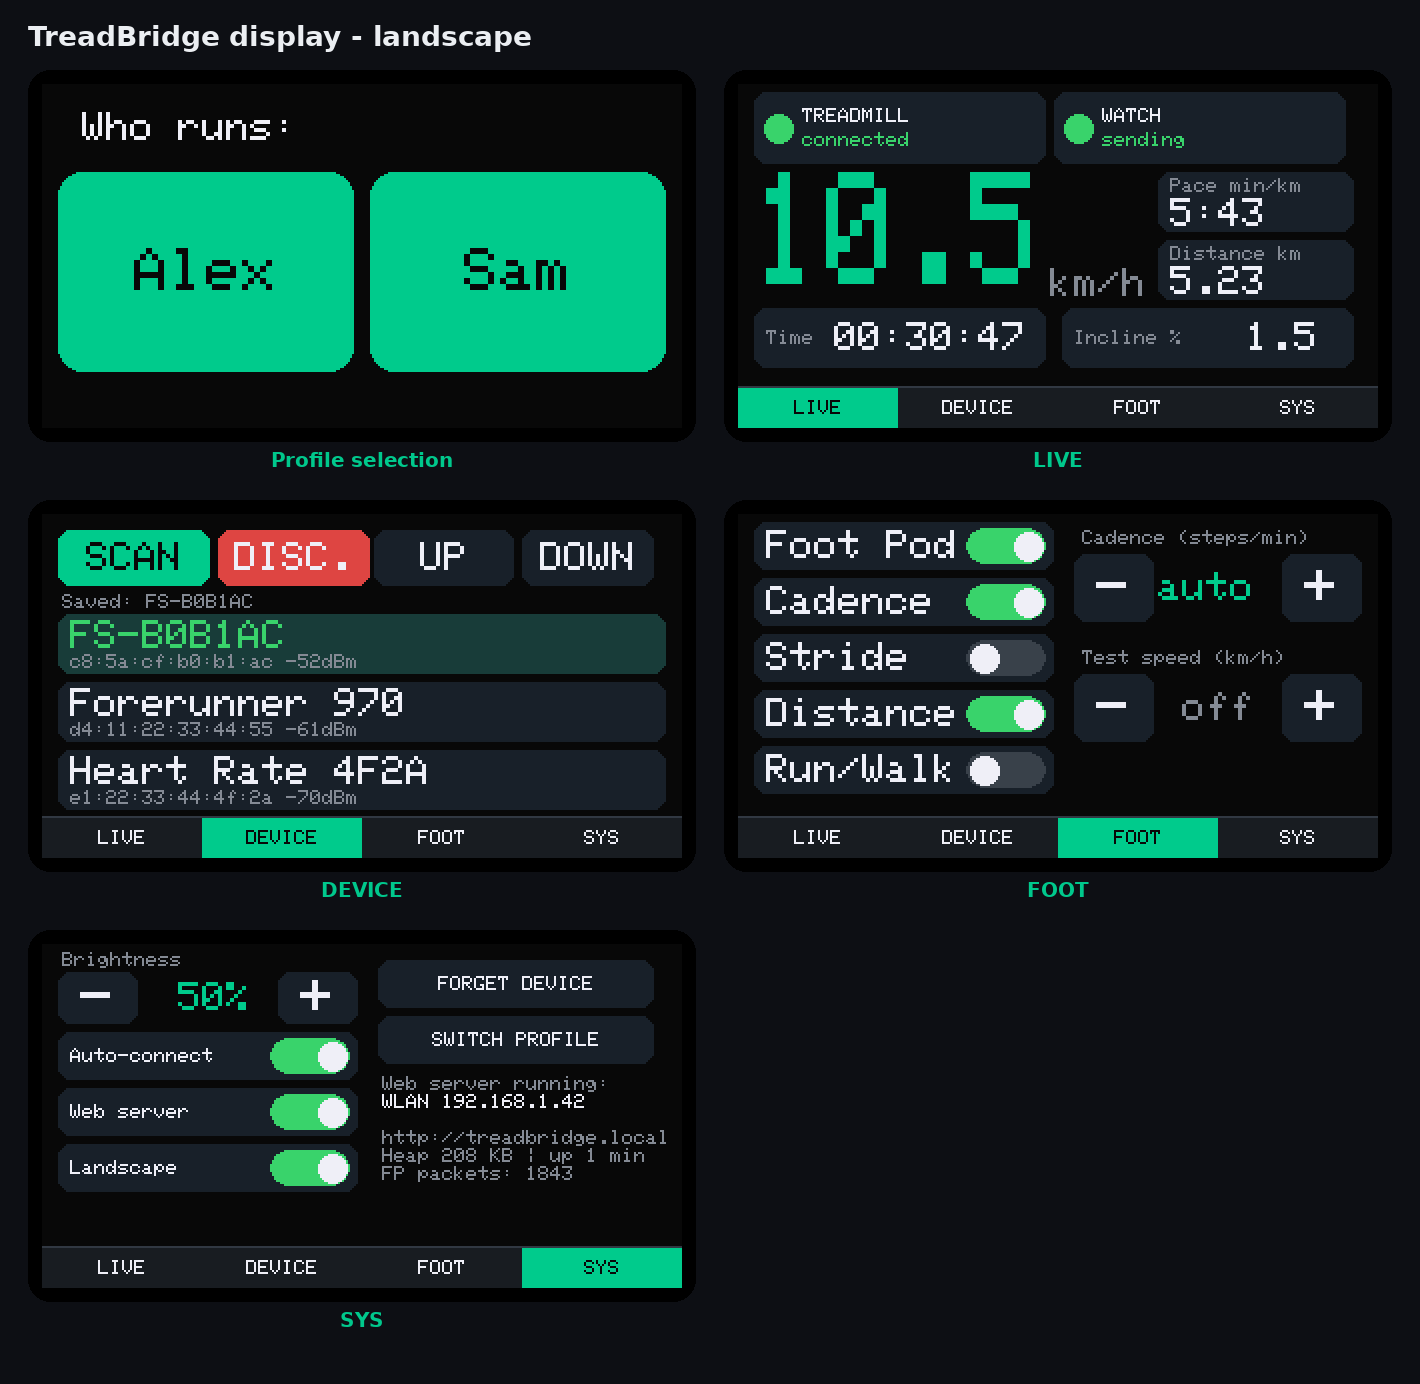
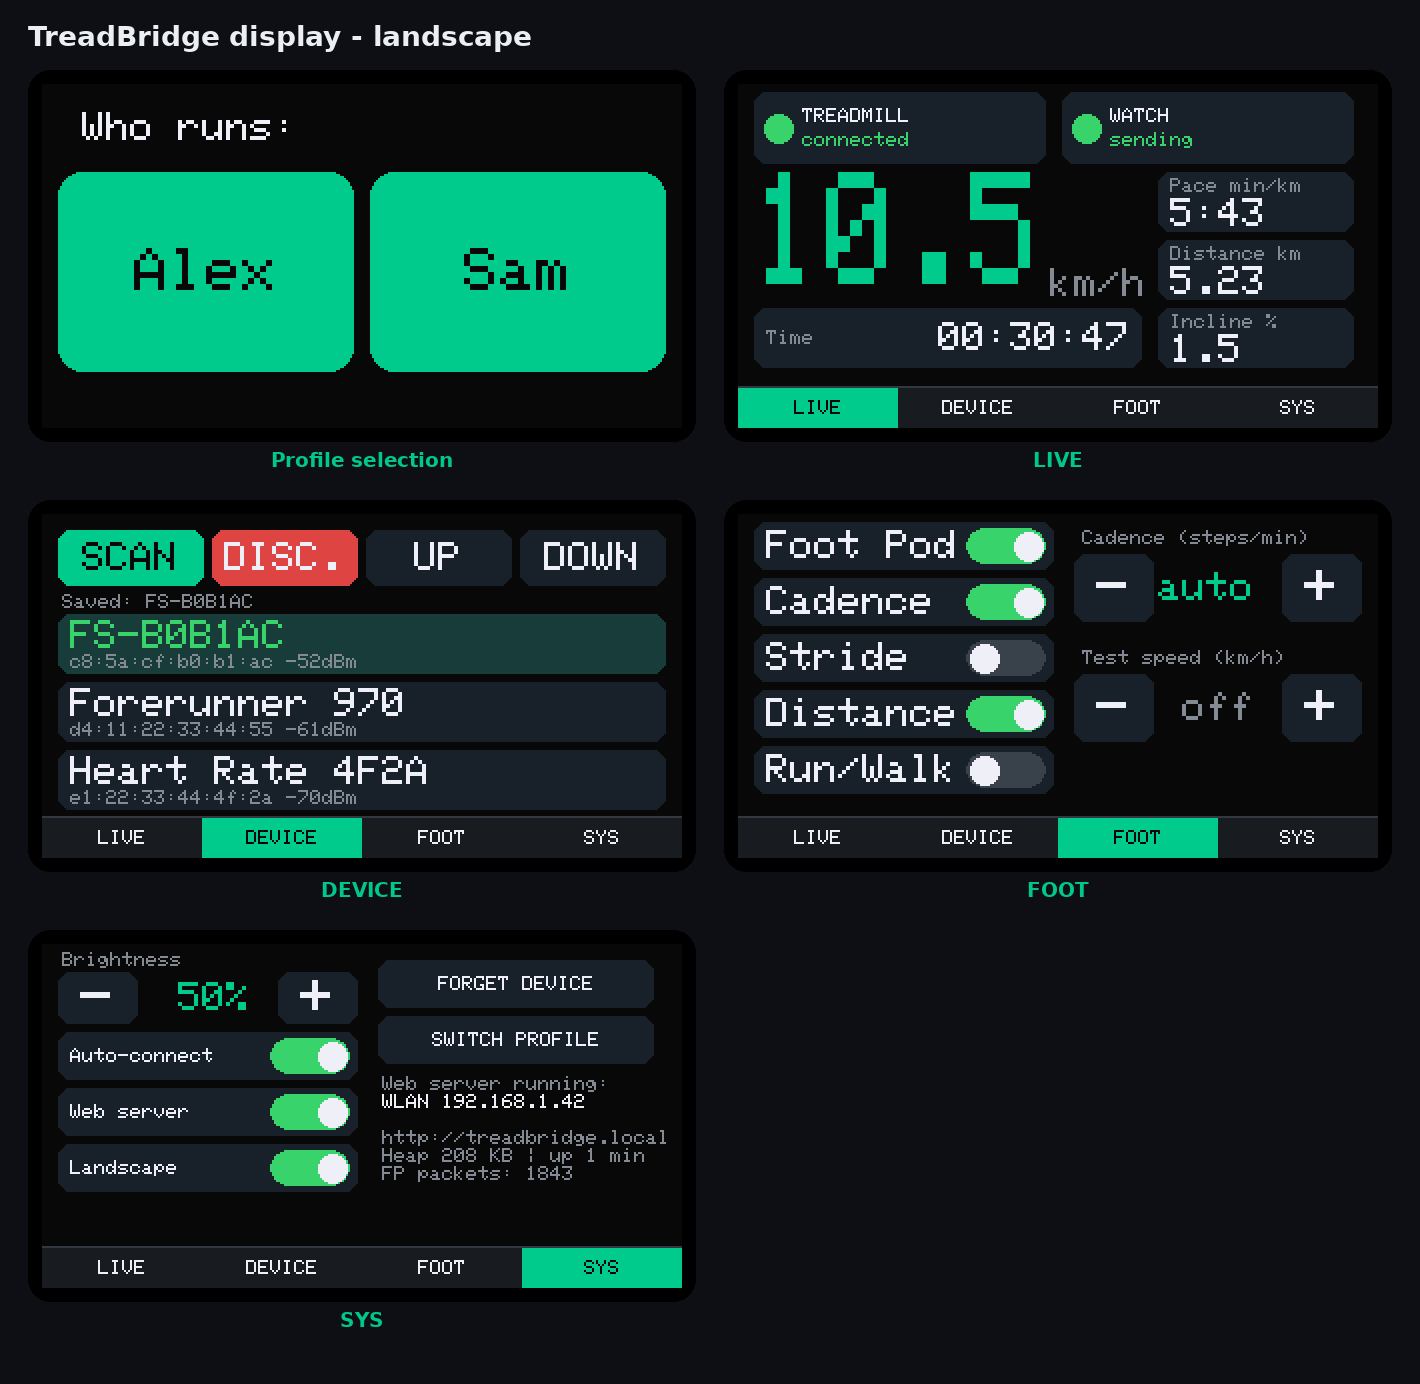
layout changes

diff --git a/src/ui.cpp b/src/ui.cpp
@@ -336,19 +336,21 @@ void pageLive() {
     put(13, 9, 208, 3, cVal, C_CARD, vZ, 8);
     put(14, 94, 250, 2, cVal, C_CARD, vS, 6, 2);
   } else {
+    // Right column (x 210..308): pace, distance, incline - all the same size (98 x 30), same left edge as the top watch box.
+    // Left of it: speed (big) and the wider time box. Top row and bottom row end at x = 308.
     if (needFull) {
       rawText(156, 92, 2, C_DIM, C_BG, "km/h");
       card(210, 44, 98, 30, C_CARD);   rawText(216, 47, 1, C_DIM, C_CARD, "Pace min/km");
       card(210, 78, 98, 30, C_CARD);   rawText(216, 81, 1, C_DIM, C_CARD, TR("Distanz km", "Distance km"));
-      card(8, 112, 146, 30, C_CARD);   rawText(14, 123, 1, C_DIM, C_CARD, TR("Zeit", "Time"));          // bottom row: same size,
-      card(162, 112, 146, 30, C_CARD); rawText(168, 123, 1, C_DIM, C_CARD, TR("Steigung %", "Incline %"));  // same height, aligned
+      card(210, 112, 98, 30, C_CARD);  rawText(216, 115, 1, C_DIM, C_CARD, TR("Steigung %", "Incline %"));
+      card(8, 112, 194, 30, C_CARD);   rawText(14, 123, 1, C_DIM, C_CARD, TR("Zeit", "Time"));
     }
-    liveStatus(21, 22, 8, 158, 4, 146);
+    liveStatus(21, 22, 8, 162, 4, 146);                                 // 8..154 and 162..308 (right edge = pace/distance/incline)
     putBig(10, 8, 44, 6, 8, cNum, C_BG, vN, 4);                        // big speed (36 x 64 pixels per digit)
     put(11, 216, 57, 2, cVal, C_CARD, vP, 7);
     put(12, 216, 91, 2, cVal, C_CARD, vD, 7);
-    put(13, 48, 119, 2, cVal, C_CARD, vZ, 8);
-    put(14, 242, 119, 2, cVal, C_CARD, vS, 4, 2);
+    put(14, 216, 125, 2, cVal, C_CARD, vS, 7);
+    put(13, 100, 119, 2, cVal, C_CARD, vZ, 8);                         // time, right-aligned in its box
   }
 }
 
@@ -359,6 +361,8 @@ int devStep()  { return landscape ? 34 : 40; }
 int devH()     { return landscape ? 30 : 36; }
 int devW()     { return landscape ? 304 : 166; }
 int devX()     { return landscape ? 8 : 3; }
+const int DEV_BW = 73, DEV_BGAP = 4;                       // landscape button row: 4 * 73 + 3 * 4 = 304 = list width
+inline int DEV_BX(int i) { return 8 + i * (DEV_BW + DEV_BGAP); }
 
 void pageDev() {
   const bool conn = S.ble == 2, scan = S.scanning;
@@ -368,15 +372,16 @@ void pageDev() {
   const char* tScan = scan ? TR("SUCHE..", "SCAN..") : TR("SUCHEN", "SCAN");
   char b[64];
   if (!landscape) {
-    button(10, 1, 28, 85, 30, tScan, cS, fS, 2);
-    button(11, 87, 28, 84, 30, TR("TRENN.", "DISC."), cT, fT, 2);
+    button(10, 3, 28, 82, 30, tScan, cS, fS, 2);                       // 3..85 and 87..169 = same width as the list
+    button(11, 87, 28, 82, 30, TR("TRENN.", "DISC."), cT, fT, 2);
     button(13, 3, 238, 80, 24, TR("AUF", "UP"), C_CARD, C_FG, 2);
     button(14, 89, 238, 80, 24, TR("AB", "DOWN"), C_CARD, C_FG, 2);
   } else {
-    button(10, 8, 8, 76, 28, tScan, cS, fS, 2);
-    button(11, 88, 8, 76, 28, TR("TRENN.", "DISC."), cT, fT, 2);
-    button(13, 166, 8, 70, 28, TR("AUF", "UP"), C_CARD, C_FG, 2);
-    button(14, 240, 8, 66, 28, TR("AB", "DOWN"), C_CARD, C_FG, 2);
+    // four equal buttons (73 px) with equal gaps (4 px) from x = 8 to x = 312 = left and right edge of the device list
+    button(10, DEV_BX(0), 8, DEV_BW, 28, tScan, cS, fS, 2);
+    button(11, DEV_BX(1), 8, DEV_BW, 28, TR("TRENN.", "DISC."), cT, fT, 2);
+    button(13, DEV_BX(2), 8, DEV_BW, 28, TR("AUF", "UP"), C_CARD, C_FG, 2);
+    button(14, DEV_BX(3), 8, DEV_BW, 28, TR("AB", "DOWN"), C_CARD, C_FG, 2);
   }
 
   if (S.hasSaved) snprintf(b, sizeof b, "%s %.14s", TR("Gespeichert:", "Saved:"), S.savedName[0] ? S.savedName : S.savedAddr);
@@ -583,15 +588,15 @@ void doOrientation() {
 
 void tapDev(int x, int y) {
   if (!landscape) {
-    if (inRect(x, y, 1, 28, 85, 30)) { if (!S.scanning) actScan(); return; }
-    if (inRect(x, y, 87, 28, 84, 30)) { if (S.ble == 2) actDisconnect(); return; }
+    if (inRect(x, y, 3, 28, 82, 30)) { if (!S.scanning) actScan(); return; }
+    if (inRect(x, y, 87, 28, 82, 30)) { if (S.ble == 2) actDisconnect(); return; }
     if (inRect(x, y, 3, 238, 80, 24)) { devScroll = max(0, devScroll - devRows()); return; }
     if (inRect(x, y, 89, 238, 80, 24)) { if (devScroll + devRows() < S.devCount) devScroll += devRows(); return; }
   } else {
-    if (inRect(x, y, 8, 8, 76, 28)) { if (!S.scanning) actScan(); return; }
-    if (inRect(x, y, 88, 8, 76, 28)) { if (S.ble == 2) actDisconnect(); return; }
-    if (inRect(x, y, 166, 8, 70, 28)) { devScroll = max(0, devScroll - devRows()); return; }
-    if (inRect(x, y, 240, 8, 66, 28)) { if (devScroll + devRows() < S.devCount) devScroll += devRows(); return; }
+    if (inRect(x, y, DEV_BX(0), 8, DEV_BW, 28)) { if (!S.scanning) actScan(); return; }
+    if (inRect(x, y, DEV_BX(1), 8, DEV_BW, 28)) { if (S.ble == 2) actDisconnect(); return; }
+    if (inRect(x, y, DEV_BX(2), 8, DEV_BW, 28)) { devScroll = max(0, devScroll - devRows()); return; }
+    if (inRect(x, y, DEV_BX(3), 8, DEV_BW, 28)) { if (devScroll + devRows() < S.devCount) devScroll += devRows(); return; }
   }
   for (int r = 0; r < devRows(); r++) {
     if (inRect(x, y, devX(), devY0() + r * devStep(), devW(), devH())) {

diff --git a/src/defaults.h b/src/defaults.h
@@ -37,7 +37,7 @@
 
 // Firmware version (semantic version, bump it by hand for releases)
 #ifndef FW_VERSION
-#define FW_VERSION "1.1.0"
+#define FW_VERSION "1.1.1"
 #endif
 // Build date and number: include/build_info.h is generated by the GitHub Action on every build
 // (local builds fall back to "dev").

diff --git a/README.md b/README.md
@@ -290,6 +290,11 @@ TreadBridge/
 
 ## Changelog
 
+### 1.1.1
+- **Changed:** landscape LIVE page. The *Incline %* box is now as big as *Pace* and *Distance* and sits below them in the right column; the *Time* box is wider instead. The *Treadmill* and *Watch* boxes at the top are equally wide, and the right one ends flush with the right column.
+- **Changed:** landscape DEVICE page. *SCAN*, *DISC.*, *UP* and *DOWN* are equally wide with equal gaps and end flush with the right edge of the Bluetooth name list. In portrait the two top buttons now end flush with the list as well.
+- **Changed:** README screenshots regenerated with `tools/display-preview/make_images.py`.
+
 ### 1.1.0
 - **Fixed:** automatic reconnect. After the treadmill or the ESP32 was restarted, the display showed “searching” but never connected; you had to press *Connect* manually. Cause: in NimBLE-Arduino 2.x, stopping a scan does not call the scan-end callback, so the “connect now” step never ran and the scan state stayed stuck. The BLE task now handles the hit itself and keeps the scan state in sync with the real scanner.
 - **New:** web flasher with settings page (GitHub Pages) and serial provisioning commands.
